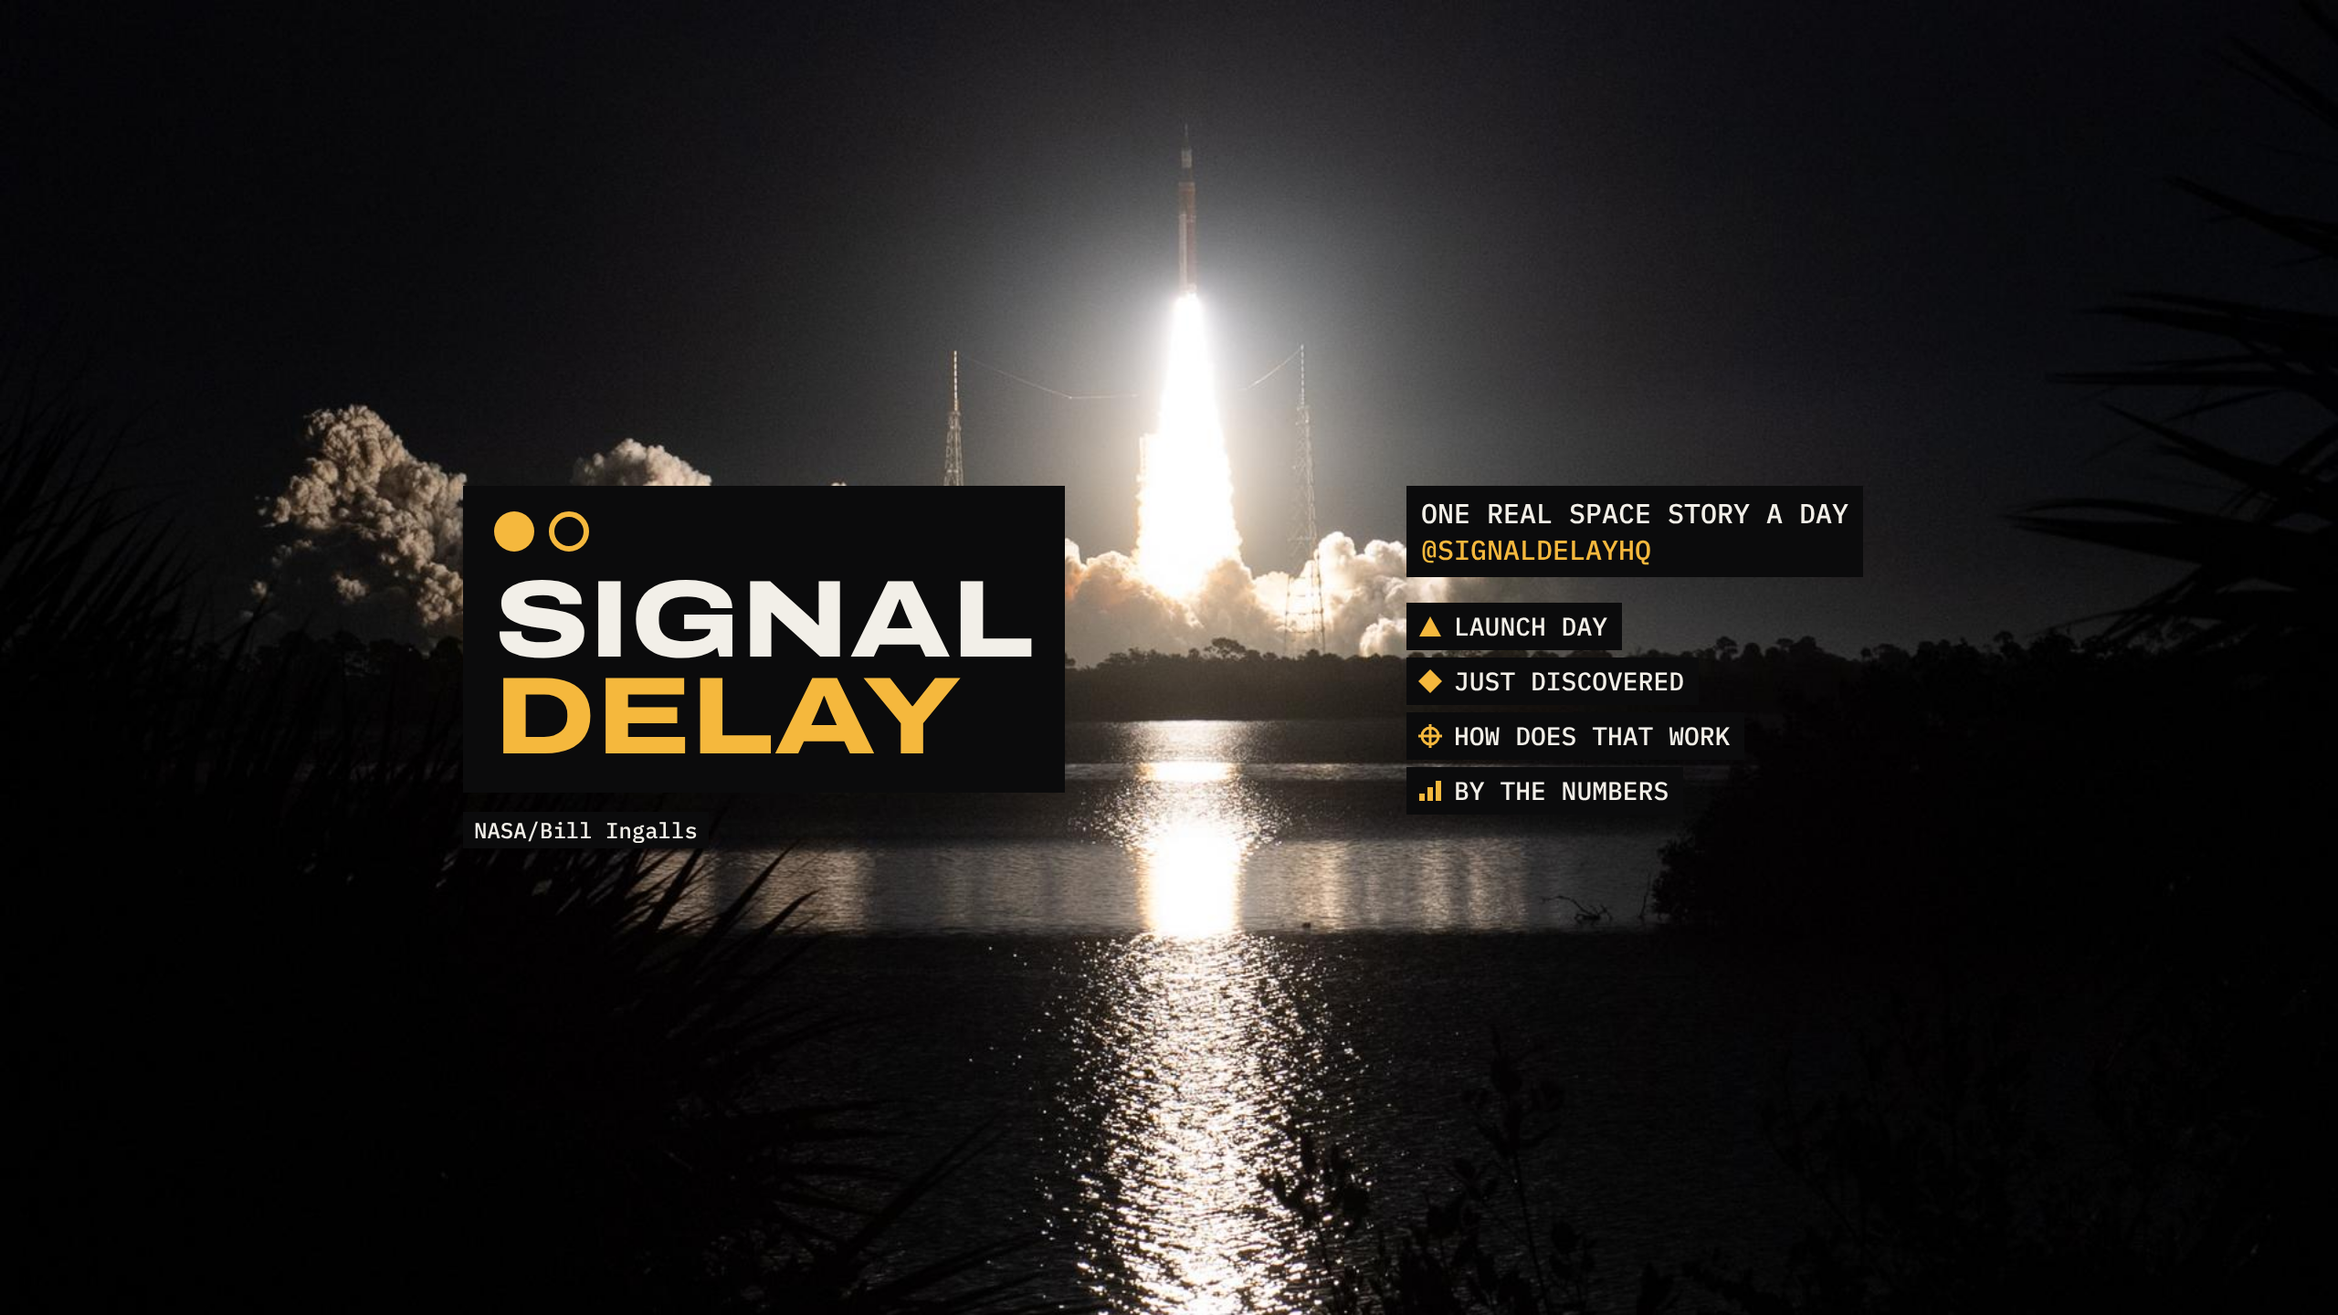
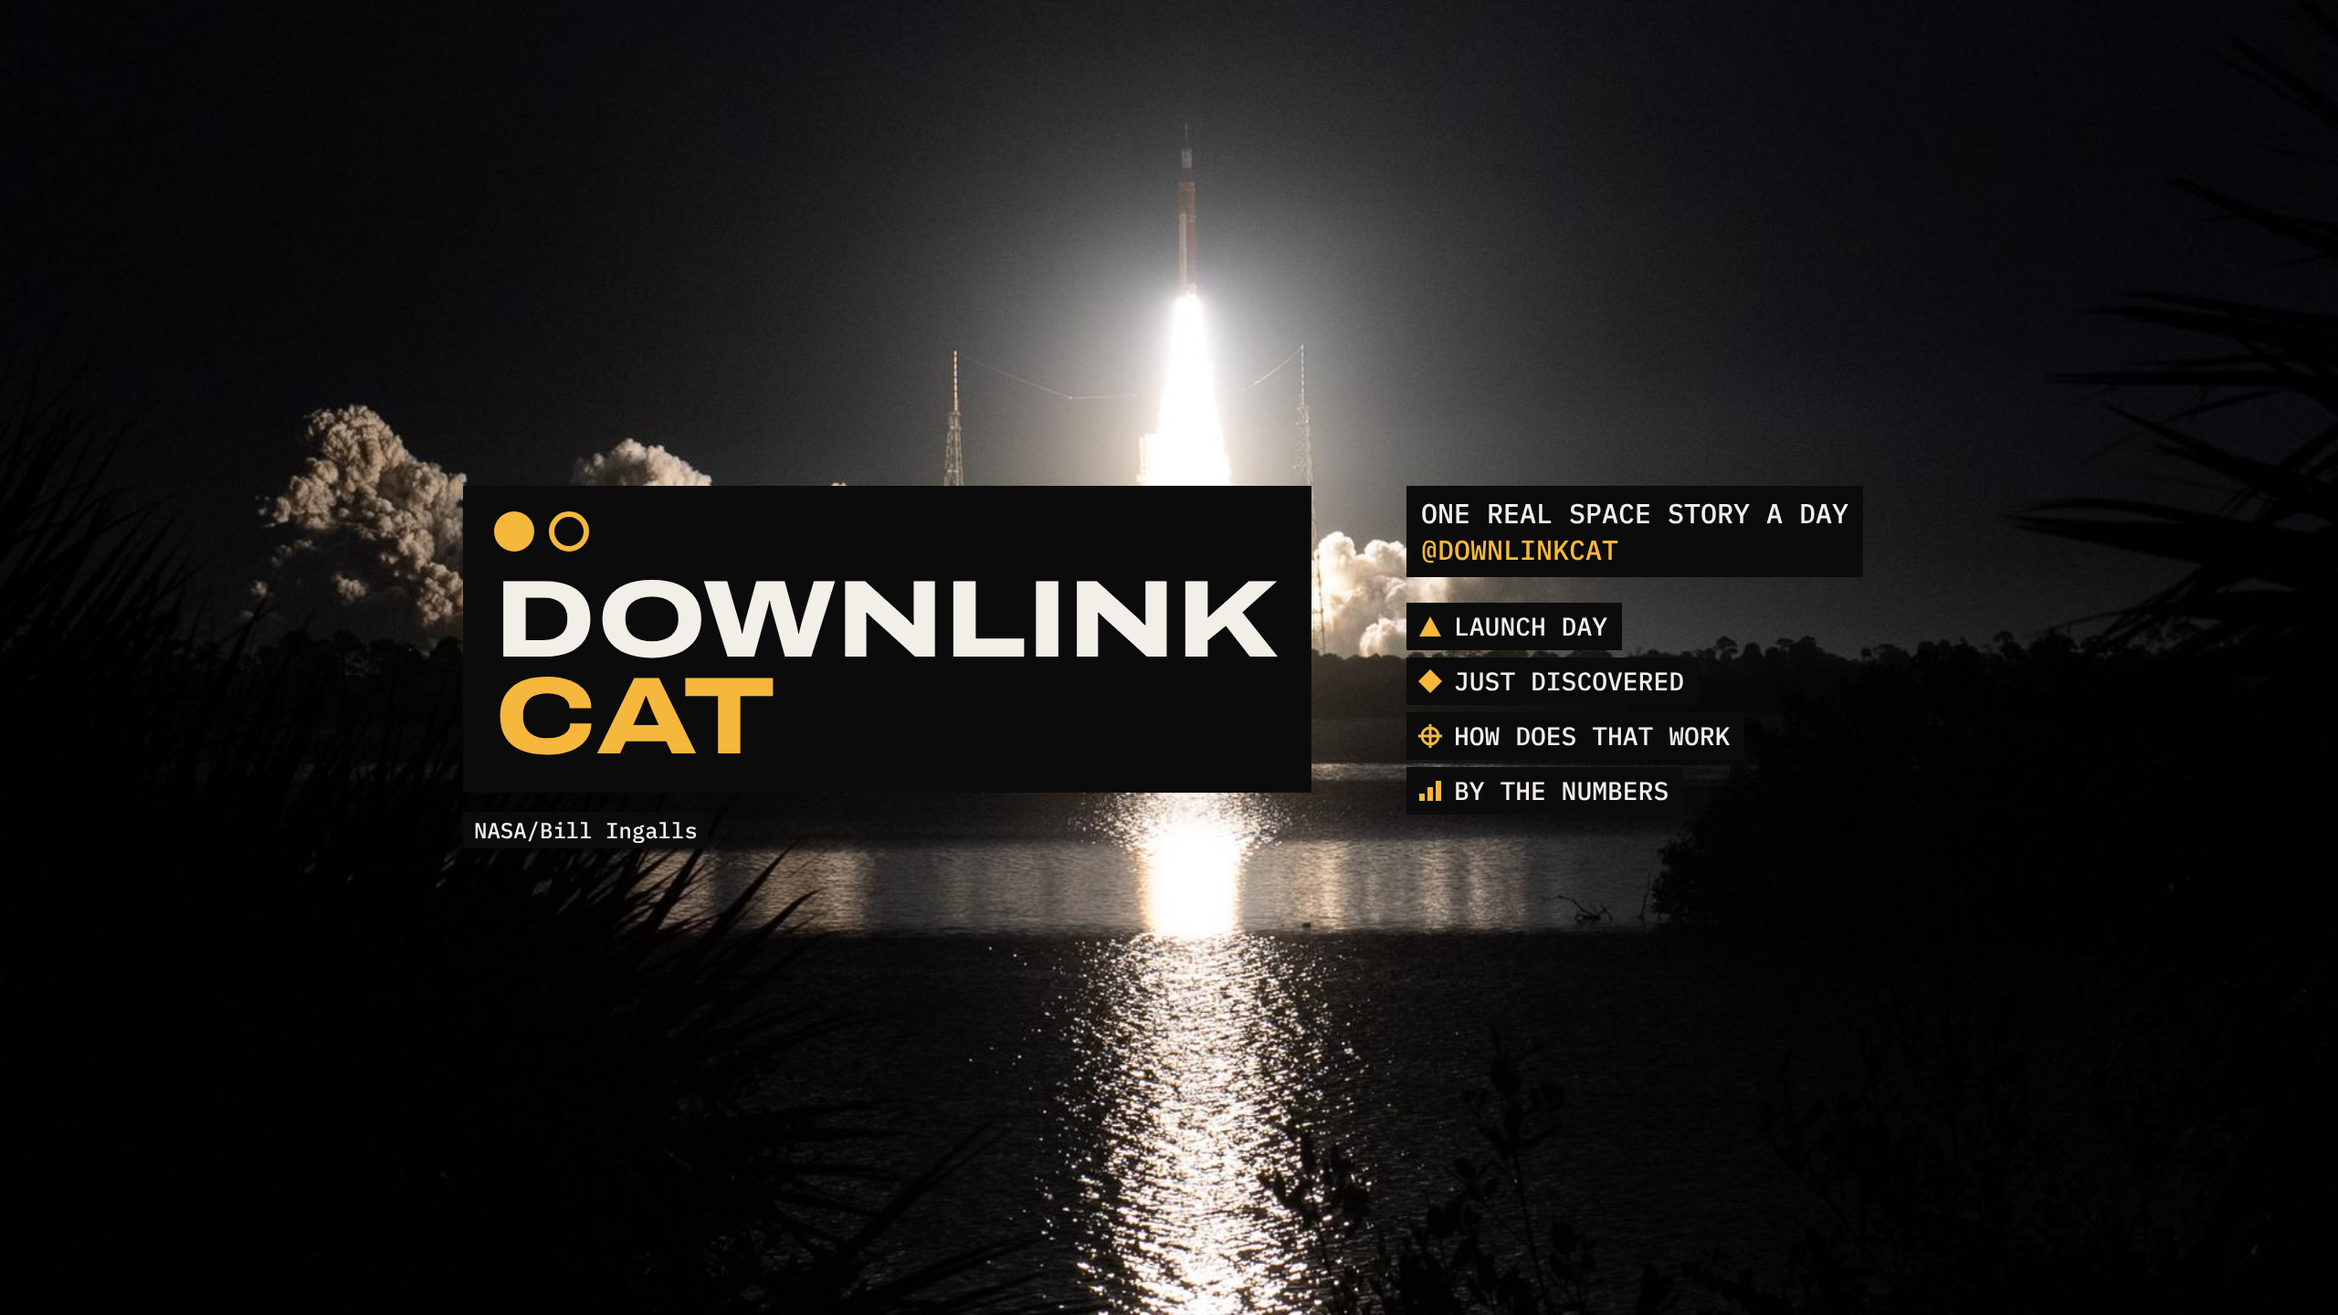
Rename the channel to Downlink Cat: playbook, design system, channel art; hold the pilot uploads
Claude-Session: https://claude.ai/code/session_01CDxf1ubykeYJwkybr8gdzS

Changed region(s): [[0.2188, 0.3438, 0.5625, 0.625], [0.625, 0.4062, 0.7188, 0.4375]]

diff --git a/lab/design/v1/export/banner.html b/lab/design/v1/export/banner.html
@@ -3,7 +3,7 @@
 <head>
 <meta charset="utf-8">
 <meta name="viewport" content="width=2560">
-<title>Signal Delay v1: Channel banner</title>
+<title>Downlink Cat v1: Channel banner</title>
 <link rel="preconnect" href="https://fonts.googleapis.com">
 <link href="https://fonts.googleapis.com/css2?family=Archivo:wdth,wght@62..125,100..900&amp;family=IBM+Plex+Mono:wght@500&amp;display=block" rel="stylesheet">
 <style>
@@ -16,15 +16,15 @@ html, body { margin: 0; background: #0B0B0C; }
   <div style="position: absolute; left: 507px; top: 532px; display: flex; flex-direction: column; align-items: flex-start; gap: 22px; padding: 28px 34px 30px; background: #0B0B0C">
     <svg width="104.0" height="44" viewBox="0 0 104 44" aria-hidden="true"><circle cx="22" cy="22" r="22" fill="#F5B83D"></circle><circle cx="82" cy="22" r="19" fill="none" stroke="#F5B83D" stroke-width="6"></circle></svg>
     <div style="font-family: 'Archivo', sans-serif; font-weight: 800; font-stretch: 125%; font-size: 120px; line-height: 106px; text-transform: uppercase; white-space: nowrap">
-      <div>Signal</div>
-      <div style="color: #F5B83D">Delay</div>
+      <div>Downlink</div>
+      <div style="color: #F5B83D">Cat</div>
     </div>
   </div>
   <div style="position: absolute; left: 507px; top: 889px; padding: 6px 12px; background: #0B0B0C; font-family: 'IBM Plex Mono', monospace; font-weight: 500; font-size: 24px; line-height: 28px; color: #F2EFE8; white-space: nowrap">NASA/Bill Ingalls</div>
   <div style="position: absolute; left: 1540px; top: 532px; display: flex; flex-direction: column; align-items: flex-start; gap: 8px">
     <div style="padding: 10px 16px; background: #0B0B0C; font-family: 'IBM Plex Mono', monospace; font-weight: 500; font-size: 30px; line-height: 40px; color: #F2EFE8; white-space: nowrap">
       <div>ONE REAL SPACE STORY A DAY</div>
-      <div style="color: #F5B83D">@SIGNALDELAYHQ</div>
+      <div style="color: #F5B83D">@DOWNLINKCAT</div>
     </div>
     <div style="height: 12px"></div>
     <div style="display: flex; align-items: center; gap: 12px; padding: 8px 16px 8px 12px; background: #0B0B0C; font-family: 'IBM Plex Mono', monospace; font-weight: 500; font-size: 28px; line-height: 36px; color: #F2EFE8; text-transform: uppercase; white-space: nowrap"><svg width="28" height="28" viewBox="0 0 28 28" aria-hidden="true"><path d="M14 3 L26 25 H2 Z" fill="#F5B83D"></path></svg><span>Launch day</span></div>

diff --git a/lab/design/v1/export/thumb.html b/lab/design/v1/export/thumb.html
@@ -3,7 +3,7 @@
 <head>
 <meta charset="utf-8">
 <meta name="viewport" content="width=1280">
-<title>Signal Delay v1: Thumbnail EP 01</title>
+<title>Downlink Cat v1: Thumbnail EP 01</title>
 <link rel="preconnect" href="https://fonts.googleapis.com">
 <link href="https://fonts.googleapis.com/css2?family=Archivo:wdth,wght@62..125,100..900&amp;family=IBM+Plex+Mono:wght@500&amp;display=block" rel="stylesheet">
 <style>
@@ -20,7 +20,7 @@ html, body { margin: 0; background: #0B0B0C; }
   </div>
   <div style="position: absolute; left: 48px; top: 612px; display: flex; align-items: center; gap: 12px; padding: 10px 16px; background: #0B0B0C">
     <svg width="52.0" height="22" viewBox="0 0 104 44" aria-hidden="true"><circle cx="22" cy="22" r="22" fill="#F5B83D"></circle><circle cx="82" cy="22" r="19" fill="none" stroke="#F5B83D" stroke-width="6"></circle></svg>
-    <div style="font-family: 'Archivo', sans-serif; font-weight: 800; font-stretch: 125%; font-size: 30px; line-height: 30px; text-transform: uppercase; white-space: nowrap">Signal <span style="color: #F5B83D">Delay</span></div>
+    <div style="font-family: 'Archivo', sans-serif; font-weight: 800; font-stretch: 125%; font-size: 30px; line-height: 30px; text-transform: uppercase; white-space: nowrap">Downlink <span style="color: #F5B83D">Cat</span></div>
   </div>
   <div style="position: absolute; left: 48px; top: 676px; padding: 4px 10px; background: #0B0B0C; font-family: 'IBM Plex Mono', monospace; font-weight: 500; font-size: 20px; line-height: 24px; color: #F2EFE8; white-space: nowrap">NASA</div>
 </div>

diff --git a/lab/design/v1/export/avatar.html b/lab/design/v1/export/avatar.html
@@ -3,7 +3,7 @@
 <head>
 <meta charset="utf-8">
 <meta name="viewport" content="width=800">
-<title>Signal Delay v1: Avatar</title>
+<title>Downlink Cat v1: Avatar</title>
 <link rel="preconnect" href="https://fonts.googleapis.com">
 <link href="https://fonts.googleapis.com/css2?family=Archivo:wdth,wght@62..125,100..900&amp;family=IBM+Plex+Mono:wght@500&amp;display=block" rel="stylesheet">
 <style>
@@ -12,7 +12,7 @@ html, body { margin: 0; background: #0B0B0C; }
 </head>
 <body>
 <div style="width: 800px; height: 800px; position: relative; overflow: hidden; background: #0B0B0C; color: #F2EFE8; font-family: 'Archivo', sans-serif">
-  <svg width="800" height="800" viewBox="0 0 800 800" role="img" aria-label="Signal Delay mark: an amber signal dot and its delayed hollow amber echo ring" style="position: absolute; left: 0; top: 0">
+  <svg width="800" height="800" viewBox="0 0 800 800" role="img" aria-label="Downlink Cat mark: an amber signal dot and its delayed hollow amber echo ring" style="position: absolute; left: 0; top: 0">
     <circle cx="257" cy="400" r="105" fill="#F5B83D"></circle>
     <circle cx="543" cy="400" r="90.7" fill="none" stroke="#F5B83D" stroke-width="28.6"></circle>
   </svg>

diff --git a/PLAYBOOK.md b/PLAYBOOK.md
@@ -1,13 +1,15 @@
-# Signal Delay: channel playbook
+# Downlink Cat: channel playbook
 
 The rules every script, video, title and upload must follow. The pipeline reads this file; change it here, not in code.
 
 ## Identity
-- Name: Signal Delay. Handle: @signaldelayhq. Channel ID: UC30o4V9vQ6ReBOpbCY2_7lg (created Oct 14, 2026). Google account: Brand Account under latentdrives@gmail.com.
+- Name: Downlink Cat (renamed from Signal Delay on Oct 16, 2026). Handle: @downlinkcat (fallback @downlinkcathq if taken). Channel ID: UC30o4V9vQ6ReBOpbCY2_7lg (created Oct 14, 2026).
+- Why the rename: another space channel, "Signal Delay" (@SignalDelay-22, UCKmS_6B0Ip8dmGbfHjfcTsA, joined Oct 6, 2026), was first in the same niche, with a weekly show. Before naming anything again, search YouTube channels, handles, TikTok, Instagram and X for the exact name, not only handle availability.
+- "Signal delay" stays as a science label on screen (the one-way light time chip); it never names the channel. Google account: Brand Account under latentdrives@gmail.com.
 - Positioning: one real space story a day, explained in under a minute, with the source on screen.
 - Output: one 30 to 45 second Short per day, plus one 8 to 10 minute "This week in space" long-form video per week, built from the same week's research.
 - Voice: one anonymous AI narrator, never a clone of a real person, on a plan that allows commercial use. Chosen in Phase 3.
-- Visual identity: the Signal Delay v1 design system (Full Bleed base with Telemetry type, amber accent and labeled diagrams).
+- Visual identity: the v1 design system (made as Signal Delay, renamed Downlink Cat) (Full Bleed base with Telemetry type, amber accent and labeled diagrams).
 
 ## Named series (rotate; never post two of the same series in a row)
 | Series | What it is |
@@ -48,10 +50,10 @@ If any target is missed, change the format before adding volume.
 - Uploads use the "Channel Ops" OAuth client (project playtest-channel, In production, unverified) on latentdrives@gmail.com, minted per channel with Hermes' `ytmint.py`. No Google Cloud work is needed for a Brand Account on latentdrives.
 - No unaudited-client lock: all 13 Gambitss API uploads are public, including 8 uploaded private with `publishAt`, which YouTube published on schedule to the second.
 - Approved videos upload as private with a `publishAt` time, so a post can still be pulled before it goes live.
-- Signal Delay has no token yet; mint it in Phase 5 (one consent click by the owner).
+- The channel token was minted by Hermes on Oct 15, 2026 (scopes youtube.upload, youtube, yt-analytics.readonly); it lives in the gitignored `.env` on the owner's computer. A rename does not change the channel ID or the token.
 - AI disclosure (checked Oct 15, 2026 against YouTube help answer 14328491): every upload sets `containsSyntheticMedia: true` (Studio "AI use: Yes") because the music is AI-generated; YouTube says disclosure alone does not limit reach or earning.
 - Uploader: `pipeline/youtube_upload.py` (private + `publishAt`, credentials from `YT_CLIENT_ID`, `YT_CLIENT_SECRET`, `YT_REFRESH_TOKEN`). Pilot schedule: `lab/pilots/PUBLISH.md`.
-- Shared-account watch item: MAGNETIC VALENTINE's "Love at First Taste" carries an "Other notices" flag in Studio. A strike on any channel of this Google account puts every channel on it at risk, Signal Delay included.
+- Shared-account watch item: MAGNETIC VALENTINE's "Love at First Taste" carries an "Other notices" flag in Studio. A strike on any channel of this Google account puts every channel on it at risk, Downlink Cat included.
 
 ## Spending
 - Voice is the only planned spend (budget ceiling about $4 per week; expected well under $1 per week with Fish Drama 3, about $1 per week with Eleven v4 Turbo).

diff --git a/lab/pilots/PUBLISH.md b/lab/pilots/PUBLISH.md
@@ -1,23 +1,27 @@
 # Publishing the three pilots
 
-Approved by the owner on Oct 15, 2026. Each Short uploads **private** with a `publishAt` time, so any one can still be pulled in Studio before it goes live.
+Status: HOLD (re-rendering as Downlink Cat; do not upload yet)
+
+Approved by the owner on Oct 15, 2026. On Oct 16 the channel was renamed from Signal Delay to Downlink Cat (see PLAYBOOK.md, Identity), so the three Signal Delay uploads from Oct 15 (cUT2N21Rd4c, 8q_GOVc-QAw, Tk6iehSEEVg) are replaced by new renders. Each Short uploads **private** with a `publishAt` time, so any one can still be pulled in Studio before it goes live.
+
+When the renders are pushed, the status line above changes to `Status: READY` and the table below carries the final times.
 
 | Order | Short | Publish at (UTC) | Local (ET) | Why this slot |
 |---|---|---|---|---|
-| 1 | `p1_mmx` (Launch Day) | 2026-10-16T16:00:00Z | Fri Oct 16, 12:00 pm | Three days before launch (Launch Library 2, rechecked Oct 15: NET 2026-10-19T19:41Z, status Go). |
-| 2 | `p3_perseverance` (By the Numbers) | 2026-10-17T16:00:00Z | Sat Oct 17, 12:00 pm | The record is from Oct 11; it ages fastest of the remaining two. |
-| 3 | `p2_webb_frb` (Just Discovered) | 2026-10-18T16:00:00Z | Sun Oct 18, 12:00 pm | Paper from Oct 8; evergreen enough to go last. |
+| 1 | `p1_mmx` (Launch Day) | to be set | | Before the launch (Launch Library 2, rechecked Oct 15: NET 2026-10-19T19:41Z, status Go). |
+| 2 | `p3_perseverance` (By the Numbers) | to be set | | The record is from Oct 11; it ages fastest of the remaining two. |
+| 3 | `p2_webb_frb` (Just Discovered) | to be set | | Paper from Oct 8; evergreen enough to go last. |
 
-## Commands (run where the Signal Delay token lives)
+## Commands (run where the token lives)
 
 ```
-export YT_CLIENT_ID=...  YT_CLIENT_SECRET=...  YT_REFRESH_TOKEN=...   # Channel Ops client + Signal Delay refresh token
-python3 pipeline/youtube_upload.py lab/pilots/p1_mmx          --publish-at 2026-10-16T16:00:00Z
-python3 pipeline/youtube_upload.py lab/pilots/p3_perseverance --publish-at 2026-10-17T16:00:00Z
-python3 pipeline/youtube_upload.py lab/pilots/p2_webb_frb     --publish-at 2026-10-18T16:00:00Z
+export YT_CLIENT_ID=...  YT_CLIENT_SECRET=...  YT_REFRESH_TOKEN=...   # Channel Ops client + the channel's refresh token
+python3 pipeline/youtube_upload.py lab/pilots/p1_mmx          --publish-at <time from the table>
+python3 pipeline/youtube_upload.py lab/pilots/p3_perseverance --publish-at <time from the table>
+python3 pipeline/youtube_upload.py lab/pilots/p2_webb_frb     --publish-at <time from the table>
 ```
 
-Add `--dry-run` first to see the exact request. Each upload writes `upload.json` (video ID, URL, schedule) next to `metadata.json`, and refuses to run twice.
+Add `--dry-run` first to see the exact request. Each upload writes `upload.json` (video ID, URL, schedule) next to `metadata.json`, and refuses to run twice: move the Oct 15 `upload.json` files aside (for example to `upload.signal-delay.json`) before uploading the new renders.
 
 ## Settings every upload carries
 - Category 28 (Science & Technology), language en, not made for kids.
@@ -25,5 +29,5 @@ Add `--dry-run` first to see the exact request. Each upload writes `upload.json`
 - Title, description (sources, credits, the AI line) and tags come from each `metadata.json` unchanged.
 
 ## After upload (in Studio, by hand, about one minute each)
-- Check the scheduled time and the "Altered or synthetic content" setting show as expected.
+- Check the scheduled time and the "AI use" setting show as expected.
 - Leave "Related video" empty until the first weekly long-form exists.

diff --git a/design-system/README.md b/design-system/README.md
@@ -1,4 +1,4 @@
-Signal Delay is a faceless daily space-news channel: one real space story a day, explained in under a minute, with the source on screen. This system governs every Short (1080 x 1920, 9:16), the weekly long-form video, thumbnails, and channel art. The frame is photo-first and fast; the type is calm and precise; amber is the only accent.
+Downlink Cat (named Signal Delay until Oct 16, 2026) is a faceless daily space-news channel: one real space story a day, explained in under a minute, with the source on screen. This system governs every Short (1080 x 1920, 9:16), the weekly long-form video, thumbnails, and channel art. The frame is photo-first and fast; the type is calm and precise; amber is the only accent.
 
 ## Content fundamentals
 
@@ -13,7 +13,7 @@ Signal Delay is a faceless daily space-news channel: one real space story a day,
 
 ### Color
 - Set every text box, diagram and the NEXT card on `ink`.
-- Set all text in `paper`. Use `amber` only for: the newest caption word, series marks, the chip value and echo mark, diagram strokes, key numbers on `ink`, and DELAY in the wordmark.
+- Set all text in `paper`. Use `amber` only for: the newest caption word, series marks, the chip value and echo mark, diagram strokes, key numbers on `ink`, and CAT in the wordmark.
 - Put `muted` on `ink` only, for units and secondary labels; never on a photo.
 - Put each caption line on `caption-box`. When giant `paper` type sits directly on a photo, add a flat `photo-scrim` between 25% and 35% and measure: the worst pixel under the type must reach 4.5:1. Never a gradient.
 
@@ -22,7 +22,7 @@ Signal Delay is a faceless daily space-news channel: one real space story a day,
 - `giant-number` (Archivo 800, width 112, 300 to 400px, uppercase, tabular numerals) for hooks, count-ups and dates; it may start at x 40.
 - `caption` (Archivo 700, width 100, 90px, sentence case) for narration.
 - `headline` (Archivo 800, width 112, 88px, uppercase) for the NEXT card line.
-- `wordmark` (Archivo 800, width 125): SIGNAL in `paper`, DELAY in `amber`, always after the echo mark.
+- `wordmark` (Archivo 800, width 125): DOWNLINK in `paper`, CAT in `amber`, always after the echo mark.
 - `kicker`, `chip`, `data`, `credit`, `diagram-label`: IBM Plex Mono 500. Every number, label, credit and unit is mono.
 
 ### Layout (Shorts, 1080 x 1920)

diff --git a/VOICE.md b/VOICE.md
@@ -1,4 +1,4 @@
-# Signal Delay narrator voice (locked Oct 15, 2026)
+# Downlink Cat narrator voice (locked Oct 15, 2026)
 
 - Model: `google/gemini-3.8-flash-tts` through OpenRouter `/api/v1/audio/speech`
 - Voice: `Puck`
